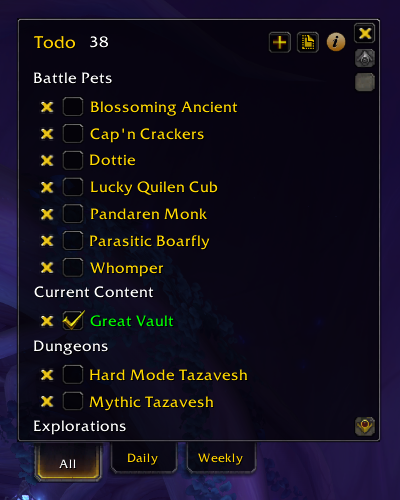
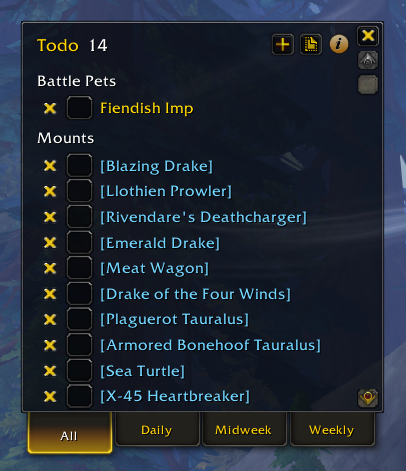
Updated README description and screenshot to feature the new Midweek tab.

diff --git a/README.md b/README.md
@@ -1,10 +1,8 @@
 # Todo Add-on
 
-Track your daily, weekly, and long-term goals using categories and profiles. Tasks created in Daily tab automatically reset each day at 8:00am (configurable in options) and tasks created in the Weekly tab reset each Tuesday (configurable in options). 
+Track your daily, weekly, midweekly, and long-term goals using categories and profiles. Tasks created in Daily tab automatically reset each day at 8:00am (configurable in options), tasks created in the Weekly tab reset each Tuesday (configurable in options), and tasks created in the Midweek tab reset each Friday (configurable in options).
 
 <img src="screenshots/default.png" alt="Screenshot of Todo add-on showing a bunch of todo items" />
-<img src="screenshots/weekly-tab.png" alt="Screenshot of Todo add-on showing weekly todo items" />
-<img src="screenshots/add-category.png" alt="Screenshot of Todo add-on showing the Add a Category screen" />
 
 ## Usage
 1. Install the Todo add-on using CurseForge, WowUp, or any other add-on manager.
@@ -13,4 +11,5 @@ Track your daily, weekly, and long-term goals using categories and profiles. Tas
 4. Open the add-on options to set a custom key binding and fine-tune your settings
 
 ## Credit
-Forked from [Ny's To-Do List add-on](https://www.curseforge.com/wow/addons/nys-todolist) and adapted by Peter Wooley
+* Forked from [Ny's To-Do List add-on](https://www.curseforge.com/wow/addons/nys-todolist) and adapted by Peter Wooley
+* Midweek support added by [JoeLatte88](https://github.com/JoeLatte88)
